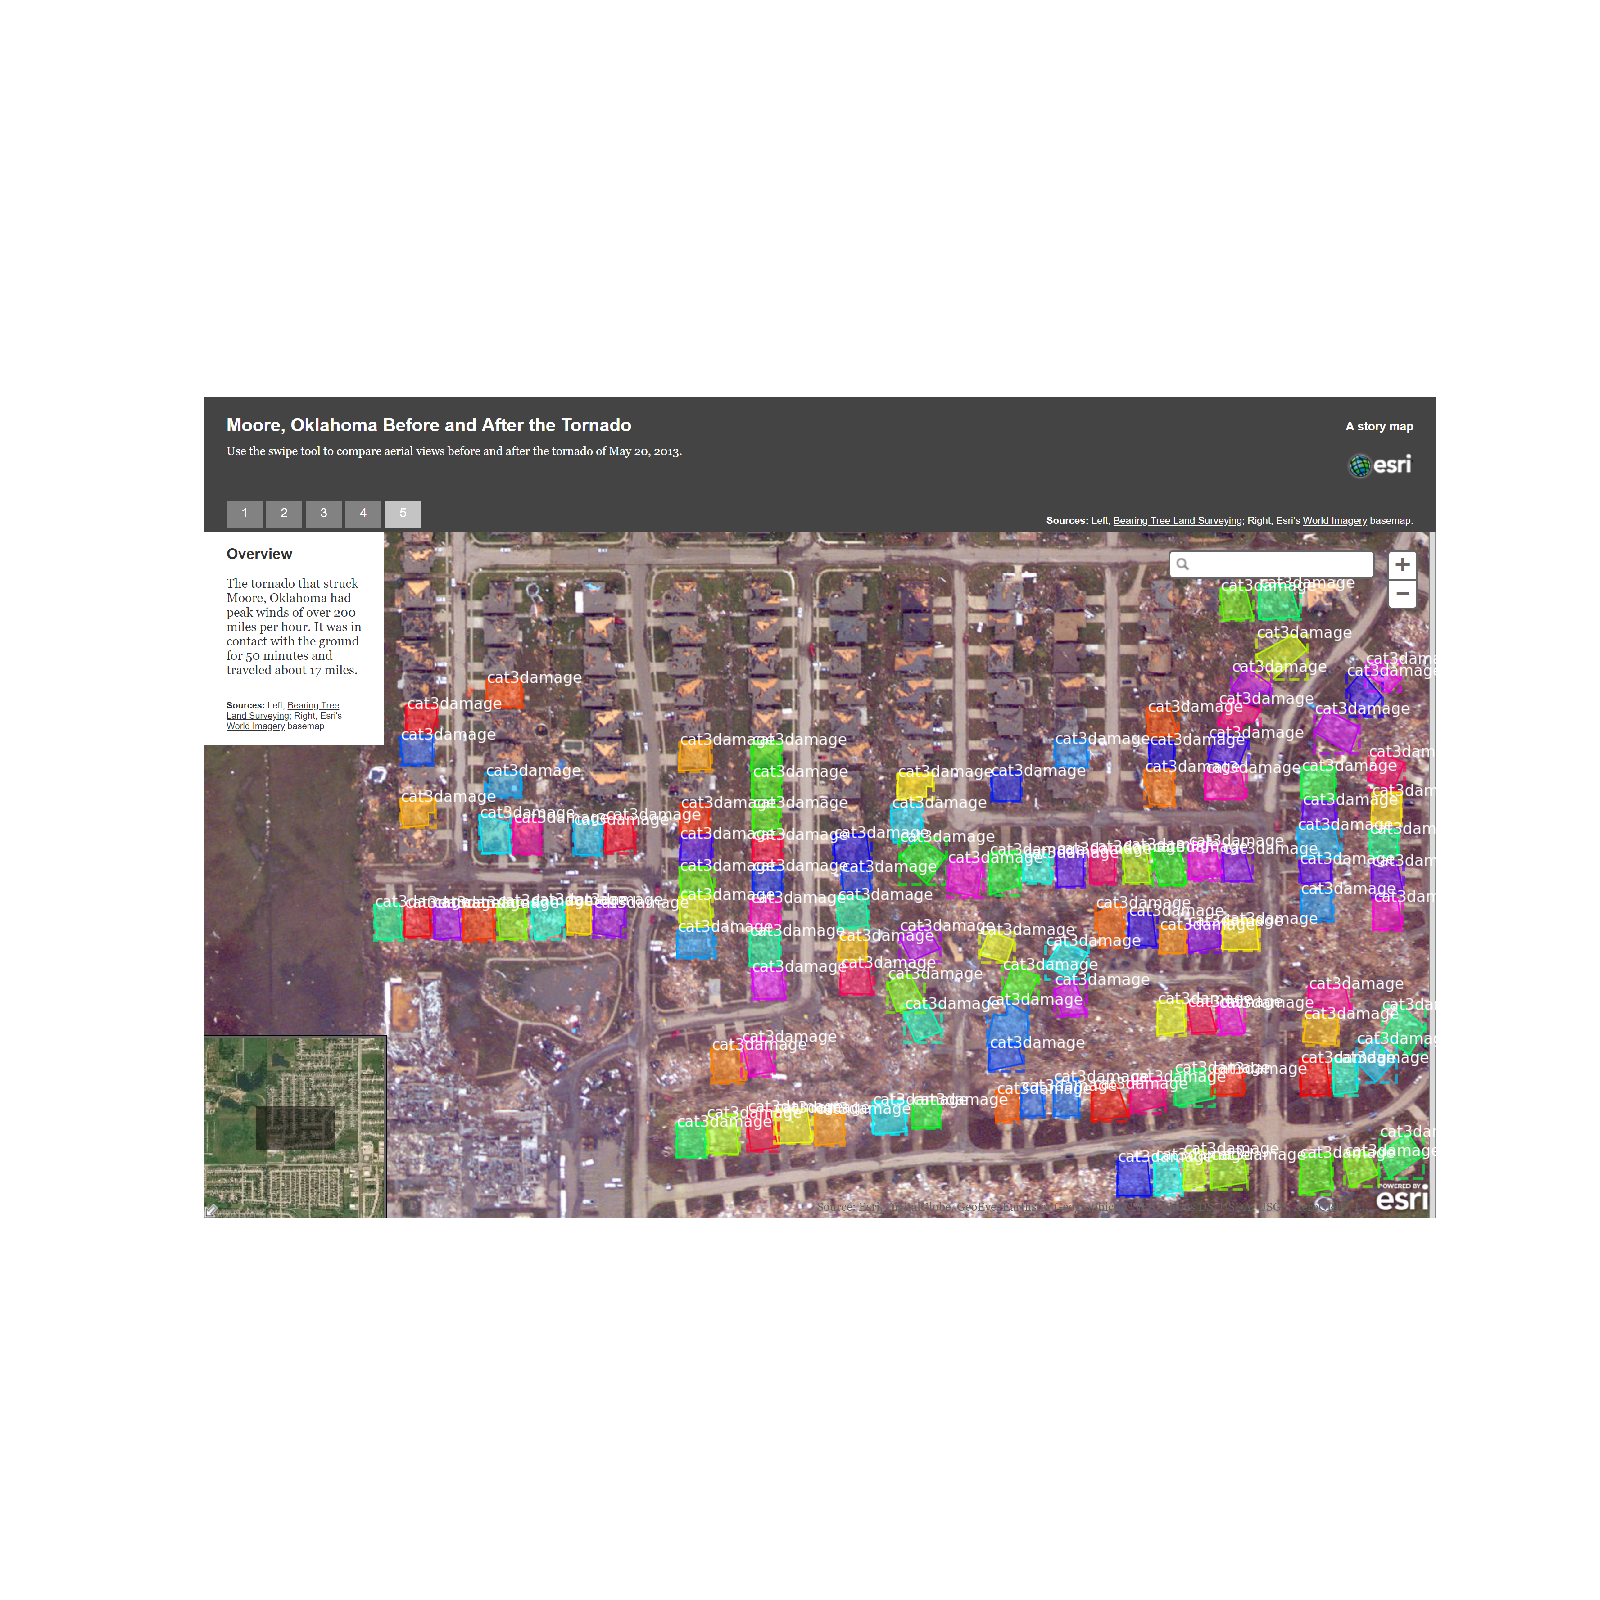
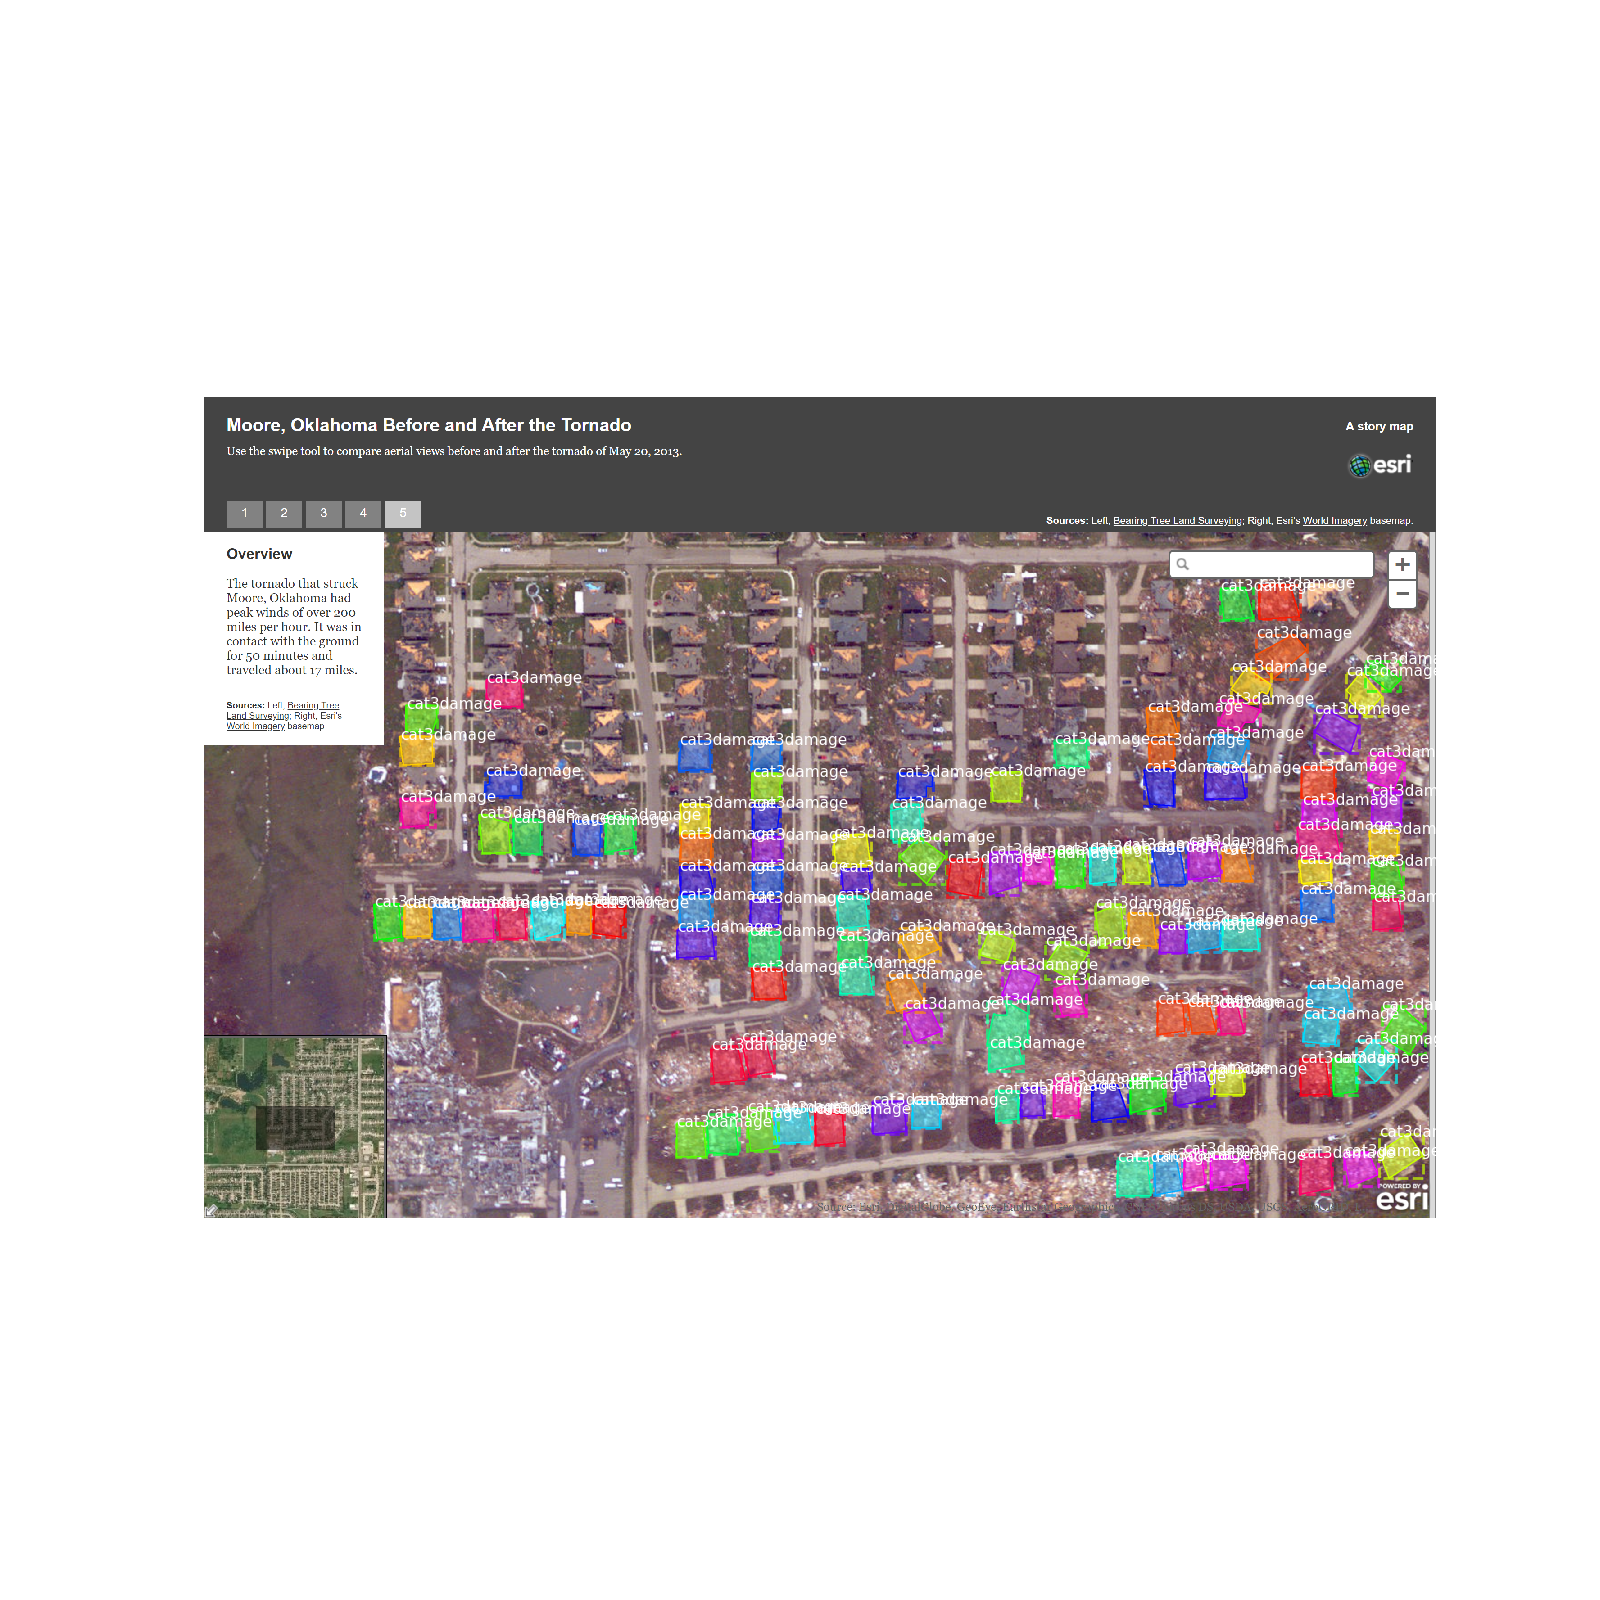
Image works

diff --git a/src/Zillow.js b/src/Zillow.js
@@ -47,6 +47,7 @@ export default class Zillow extends React.Component {
       currency: 'USD',
       locations: [],
       file: '',
+      image: 'http://placekitten.com/g/200/300',
     }
   }
 
@@ -64,13 +65,28 @@ export default class Zillow extends React.Component {
       })
   }
 
+  getImage = () => {
+    const axios = require('axios');
+    axios.get(`http://localhost:3000/getImage`)
+      .then((response) => {
+        // handle success
+        console.log(response);
+        this.setState({ image: response.config.url })
+        console.log(this.state);
+      })
+      .catch(function (error) {
+        // handle error
+        console.log(error);
+      })
+  }
+
   getTotalDamage = async () => {
     this.setState({ loading: true })
     const axios = require('axios');
-    let response = await axios.post('http://localhost:3000/getMorePyData', {data: this.state.file})
+    let response = await axios.post('http://localhost:3000/getMorePyData', { data: this.state.file })
 
-    
     // response = JSON.parse(response.data);
+    this.getImage();
 
     let houses = response.data.houses;
     // let image = response.marked_image;
@@ -78,7 +94,7 @@ export default class Zillow extends React.Component {
     houses = this.prepareHouses(houses);
 
 
-    this.setState({ locations: houses, homesAffected: houses.length});
+    this.setState({ locations: houses, homesAffected: houses.length });
     axios.post(`http://localhost:3000/getTotalDamage`, {
       data: houses
     })
@@ -151,7 +167,7 @@ export default class Zillow extends React.Component {
   }
 
   imgSelected = (e) => {
-    
+
     this.setState({ file: e.target.files[0].name });
   }
 
@@ -159,7 +175,7 @@ export default class Zillow extends React.Component {
     if (this.state.loading)
       return <div>
 
-        <span className={"ml-3"}><Spinner animation="border" className={"mr-2"}/> Robots at work!</span>
+        <span className={"ml-3"}><Spinner animation="border" className={"mr-2"} /> Robots at work!</span>
       </div>
     else
       return <div />
@@ -242,7 +258,7 @@ export default class Zillow extends React.Component {
         </Row>
         <Row style={{ marginTop: 30 }}>
           <Col>
-          <Card>
+            <Card>
               <Card.Body>
                 <Card.Title>
                   Affected Homes
@@ -258,15 +274,15 @@ export default class Zillow extends React.Component {
           </Col>
           <Col>
 
-          <Card>
+            <Card>
               <Card.Body>
                 <Card.Title>
                   ML Mapping
               </Card.Title>
-                <Image src={'http://localhost:3000/server/py/mask-rcnn/program/cat3damage/output.png'} style={{ width: 450 }} />
+                <img src={this.state.image} onClick = {this.getImage()} style={{ width: '100%' }} />
               </Card.Body>
             </Card>
-            
+
           </Col>
         </Row>
       </Container>
